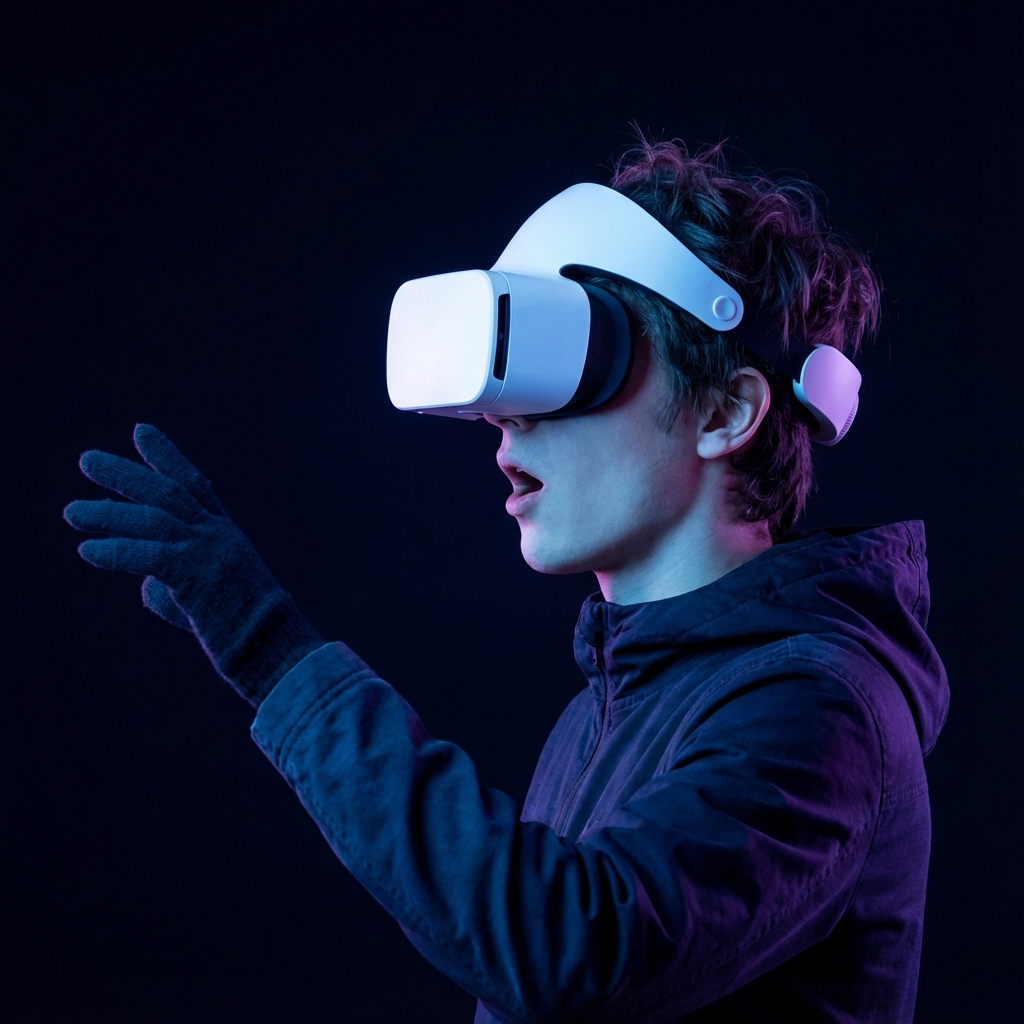
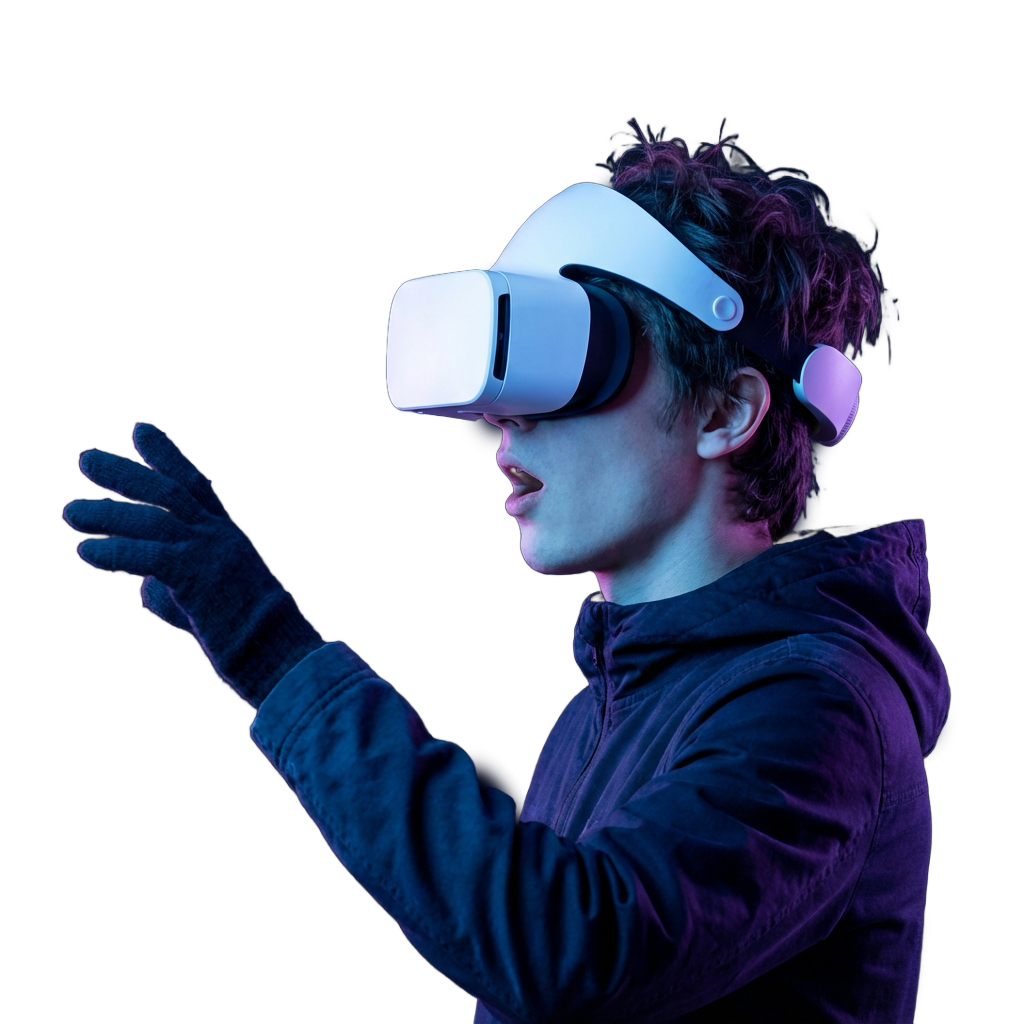
header und ios fixes

diff --git a/hero-3d.js b/hero-3d.js
@@ -50,7 +50,7 @@ document.addEventListener('DOMContentLoaded', () => {
         const size = box.getSize(new THREE.Vector3());
 
         const maxDim = Math.max(size.x, size.y, size.z);
-        const scale = 3.5 / maxDim; // Fit within ~3.5 units height
+        const scale = 5.0 / maxDim; // Fit within ~5.0 units height (Bigger)
 
         model.scale.setScalar(scale);
         model.position.sub(center.multiplyScalar(scale)); // Center it
@@ -66,8 +66,9 @@ document.addEventListener('DOMContentLoaded', () => {
         });
 
         // Position on the LEFT
-        model.position.x = -3.5;
-        model.position.y = -1;
+        model.position.x = -2.5; // Closer to center
+        model.position.y = -3;
+        model.scale.set(12, 12, 12);
         // Slight rotation to show off depth
         model.rotation.y = Math.PI / 8;
 
@@ -75,6 +76,9 @@ document.addEventListener('DOMContentLoaded', () => {
     }, undefined, (error) => {
         console.error('An error happened loading GLB:', error);
     });
+
+    let userMesh; // Declare outside for access in resize
+    let userGroupBaseX = 4.0; // Default base X for user group
 
     // LOAD PROJECTION USER IMAGE
     const textureLoader = new THREE.TextureLoader();
@@ -96,16 +100,35 @@ document.addEventListener('DOMContentLoaded', () => {
             opacity: 0.9
         });
 
-        const userMesh = new THREE.Mesh(geometry, material);
+        userMesh = new THREE.Mesh(geometry, material);
         // Position on the RIGHT
-        userMesh.position.x = 3.5;
+        userMesh.position.x = 2.0; // Closer to center
         userMesh.position.y = -0.5;
+
+        // Initial Layout
+        updateLayout();
+
         userGroup.add(userMesh);
     });
 
+    function updateLayout() {
+        if (!userMesh) return;
+        if (window.innerWidth < 768) {
+            // Mobile
+            userMesh.scale.set(1, 1, 1); // Half size (2 -> 1)
+            userMesh.position.x = 0; // Local position 0, Group handles offset
+            userGroupBaseX = 1.0; // Target X for Group
+        } else {
+            // Desktop
+            userMesh.scale.set(2, 2, 2);
+            userMesh.position.x = 0; // Local position 0
+            userGroupBaseX = 4.0; // Target X for Group
+        }
+    }
+
     // PARTICLES (Wireframe parts simulation)
     const particlesGeometry = new THREE.BufferGeometry();
-    const particlesCount = 300;
+    const particlesCount = 500;
     const posArray = new Float32Array(particlesCount * 3);
 
     for (let i = 0; i < particlesCount * 3; i += 3) {
@@ -148,6 +171,7 @@ document.addEventListener('DOMContentLoaded', () => {
         camera.aspect = window.innerWidth / window.innerHeight;
         camera.updateProjectionMatrix();
         renderer.setSize(window.innerWidth, window.innerHeight);
+        updateLayout();
     });
 
     // ANIMATION LOOP
@@ -158,17 +182,24 @@ document.addEventListener('DOMContentLoaded', () => {
         const elapsedTime = clock.getElapsedTime();
 
         // Parallax Targets
-        targetX = mouseX * 0.001;
-        targetY = mouseY * 0.001;
+        if (window.innerWidth < 768) {
+            // Auto-motion for mobile
+            targetX = Math.sin(elapsedTime * 0.5) * 1; // Stronger 
+            targetY = Math.cos(elapsedTime * 0.3) * 0.6; // Stronger
+        } else {
+            targetX = mouseX * 0.001;
+            targetY = mouseY * 0.001;
+        }
 
         // Model Group (Moves opposite to mouse for depth)
         // Rotate slightly
-        modelGroup.rotation.y += 0.05 * (targetX - modelGroup.rotation.y);
-        modelGroup.rotation.x += 0.05 * (targetY - modelGroup.rotation.x);
+        modelGroup.rotation.y += 0.05 * ((targetX * 0.2) - modelGroup.rotation.y);
+        modelGroup.rotation.x += 0.05 * ((targetY * 0.2) - modelGroup.rotation.x);
 
         // User Group (Moves slightly differently)
-        userGroup.position.x += 0.03 * ((3.5 - targetX * 2) - userGroup.position.x); // Parallax X translation
-        userGroup.rotation.z = targetX * 0.1; // Subtle tilt
+        // Moves around userGroupBaseX
+        userGroup.position.x += 0.03 * ((userGroupBaseX - targetX * 0.1) - userGroup.position.x);
+        userGroup.rotation.z = targetX * 0.005; // Subtle tilt
 
         // Particles float
         particlesMesh.rotation.y = -mouseX * 0.0001;

diff --git a/index_de.html b/index_de.html
@@ -131,7 +131,8 @@
                     <p>Meta Dom basiert auf einem massiven Photogrammetrie-Projekt von <strong
                             class="highlight-text">Northdocks</strong>. Mit modernster Drohnentechnologie wurden über
                         <strong>100.000 hochauflösende Fotos</strong> aufgenommen, um den Dom im digitalen Raum zu
-                        rekonstruieren.</p>
+                        rekonstruieren.
+                    </p>
 
                     <div class="stats-grid">
                         <div class="stat-item">
@@ -201,8 +202,8 @@
             </div>
             <div class="footer-links">
                 <a href="https://www.northdocks.com/">Unternehmen</a>
-                <a href="#">Datenschutzerklärung</a>
-                <a href="#">Impressum</a>
+                <a href="https://www.northdocks.com/datenschutz/">Datenschutzerklärung</a>
+                <a href="https://www.northdocks.com/impressum/">Impressum</a>
             </div>
         </div>
         <div class="copyright">

diff --git a/styles.css b/styles.css
@@ -279,7 +279,7 @@ h1 {
 }
 
 .features {
-    padding: 8rem 0;
+    padding: 4rem 0;
     position: relative;
 }
 
@@ -586,6 +586,21 @@ h1 {
         order: -1;
         /* Image first on mobile */
         margin-bottom: 2rem;
+    }
+
+    .wireframe-img {
+        transform: none;
+        max-width: 100%;
+        height: auto;
+    }
+
+    .stats-grid {
+        grid-template-columns: 1fr;
+        gap: 2rem;
+    }
+
+    .tech-image {
+        max-width: 100%;
     }
 }
 
